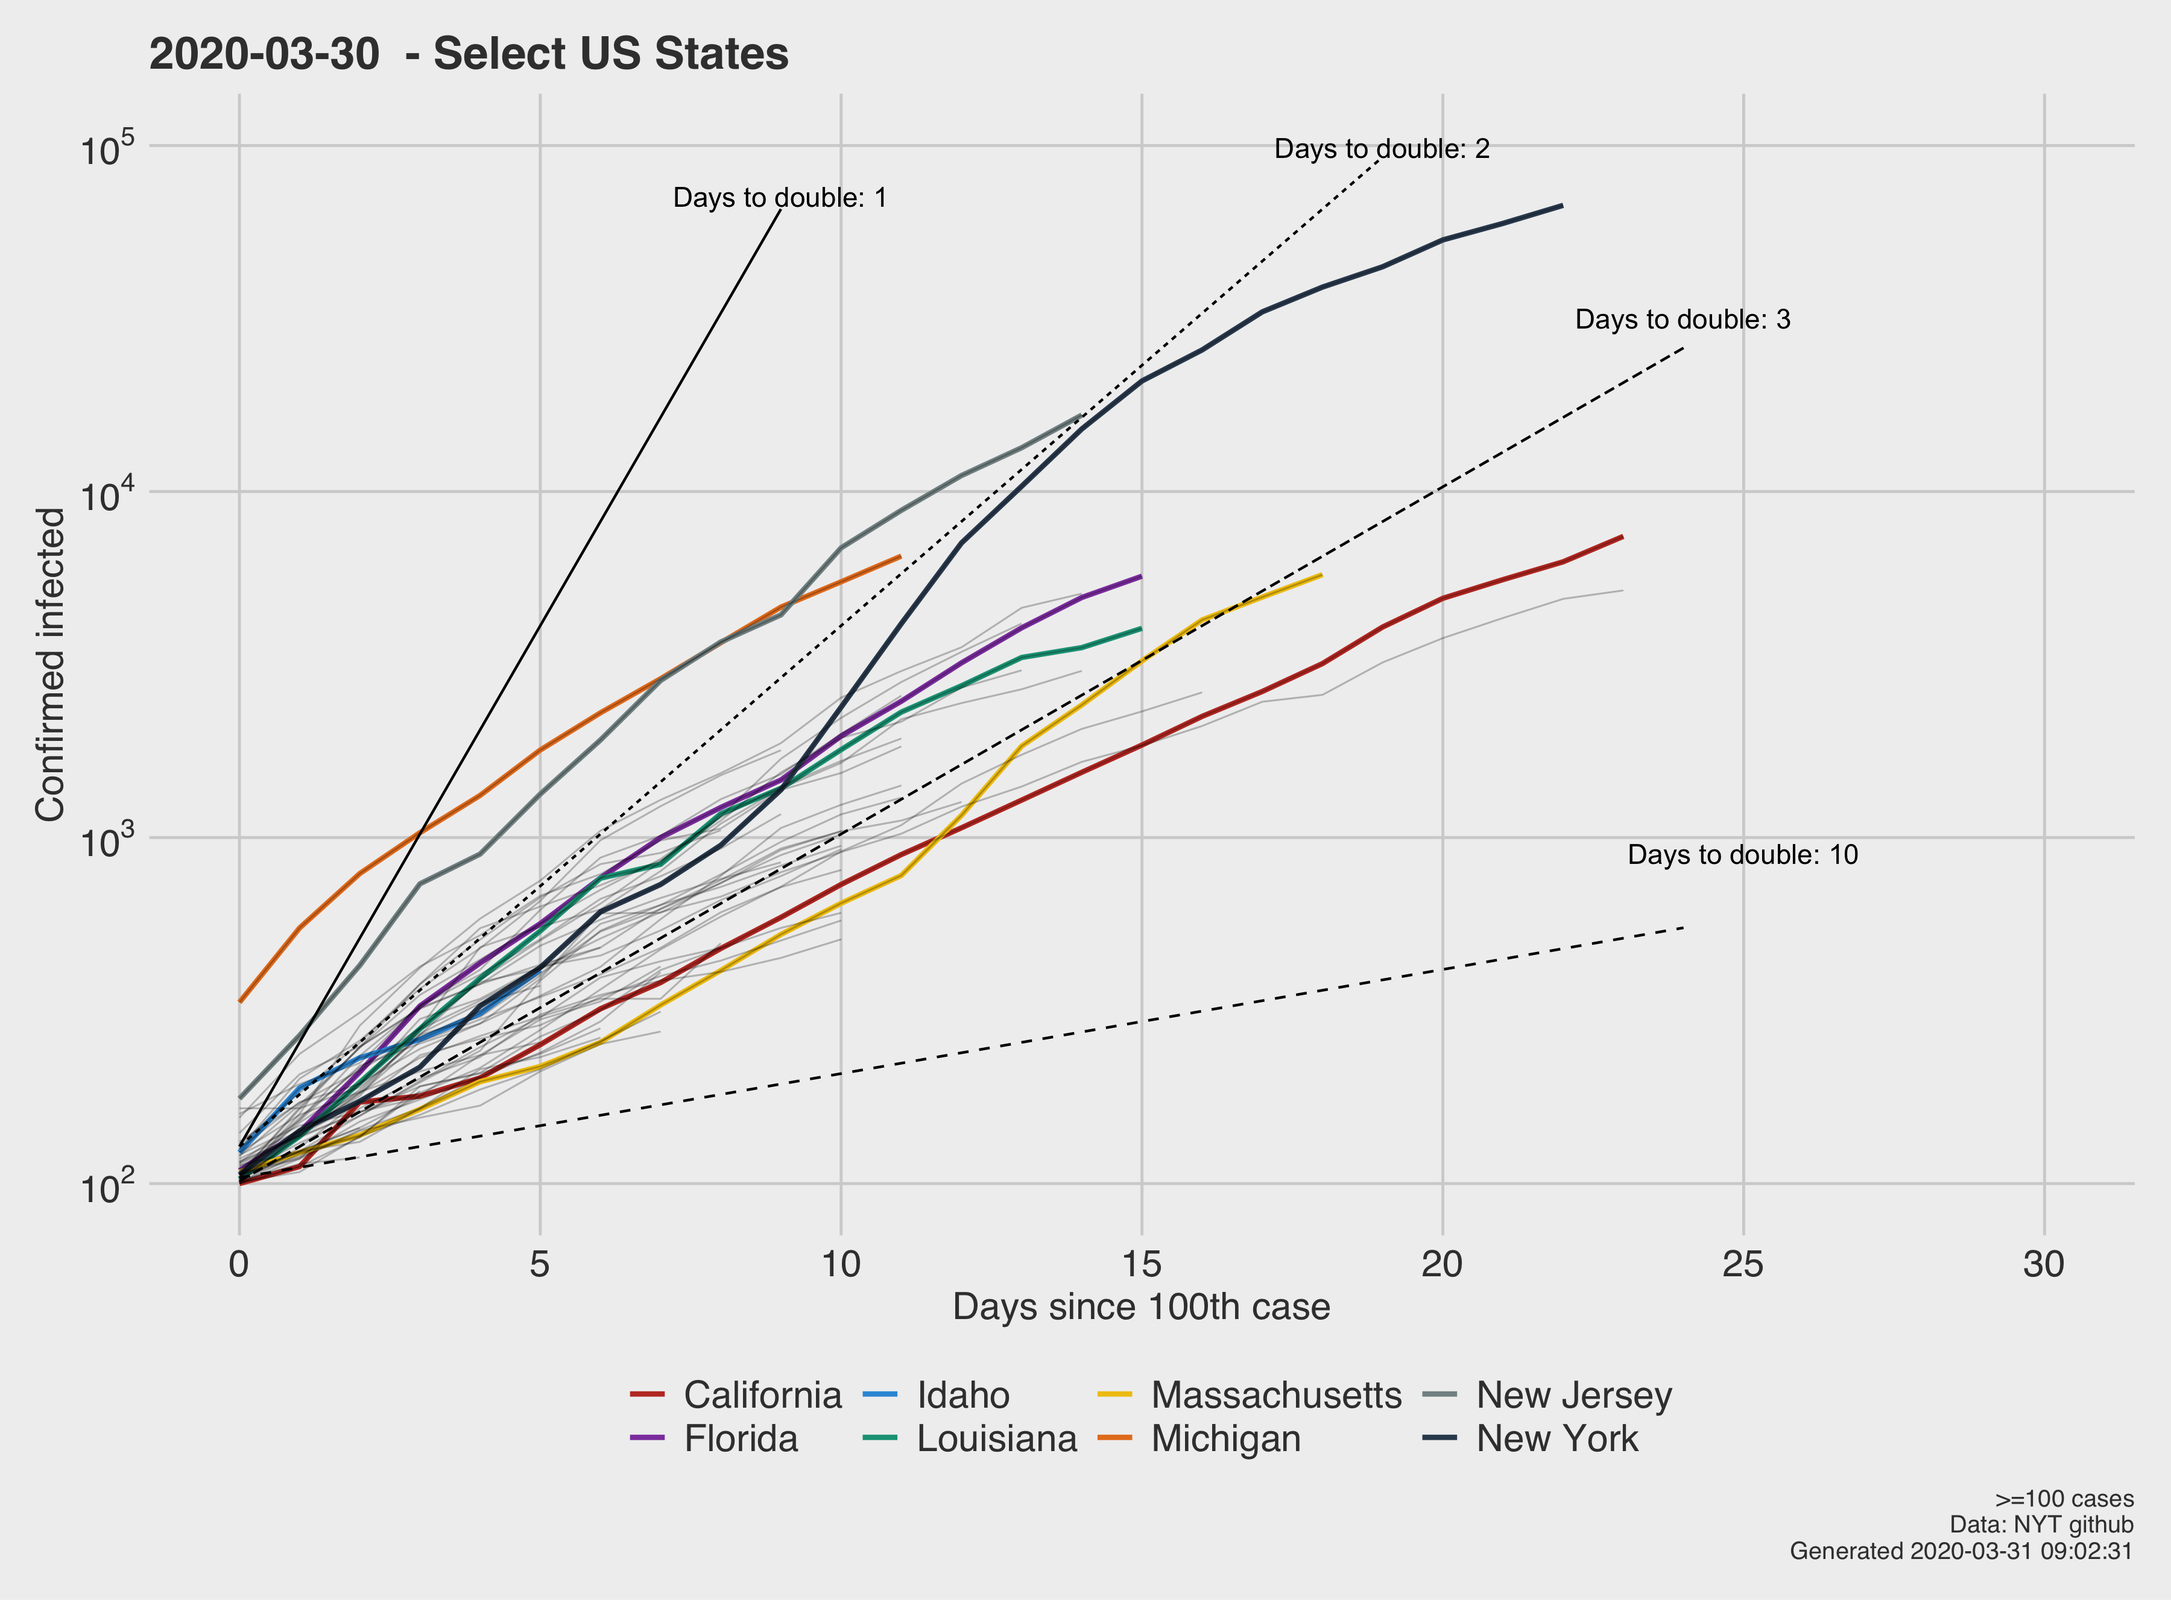
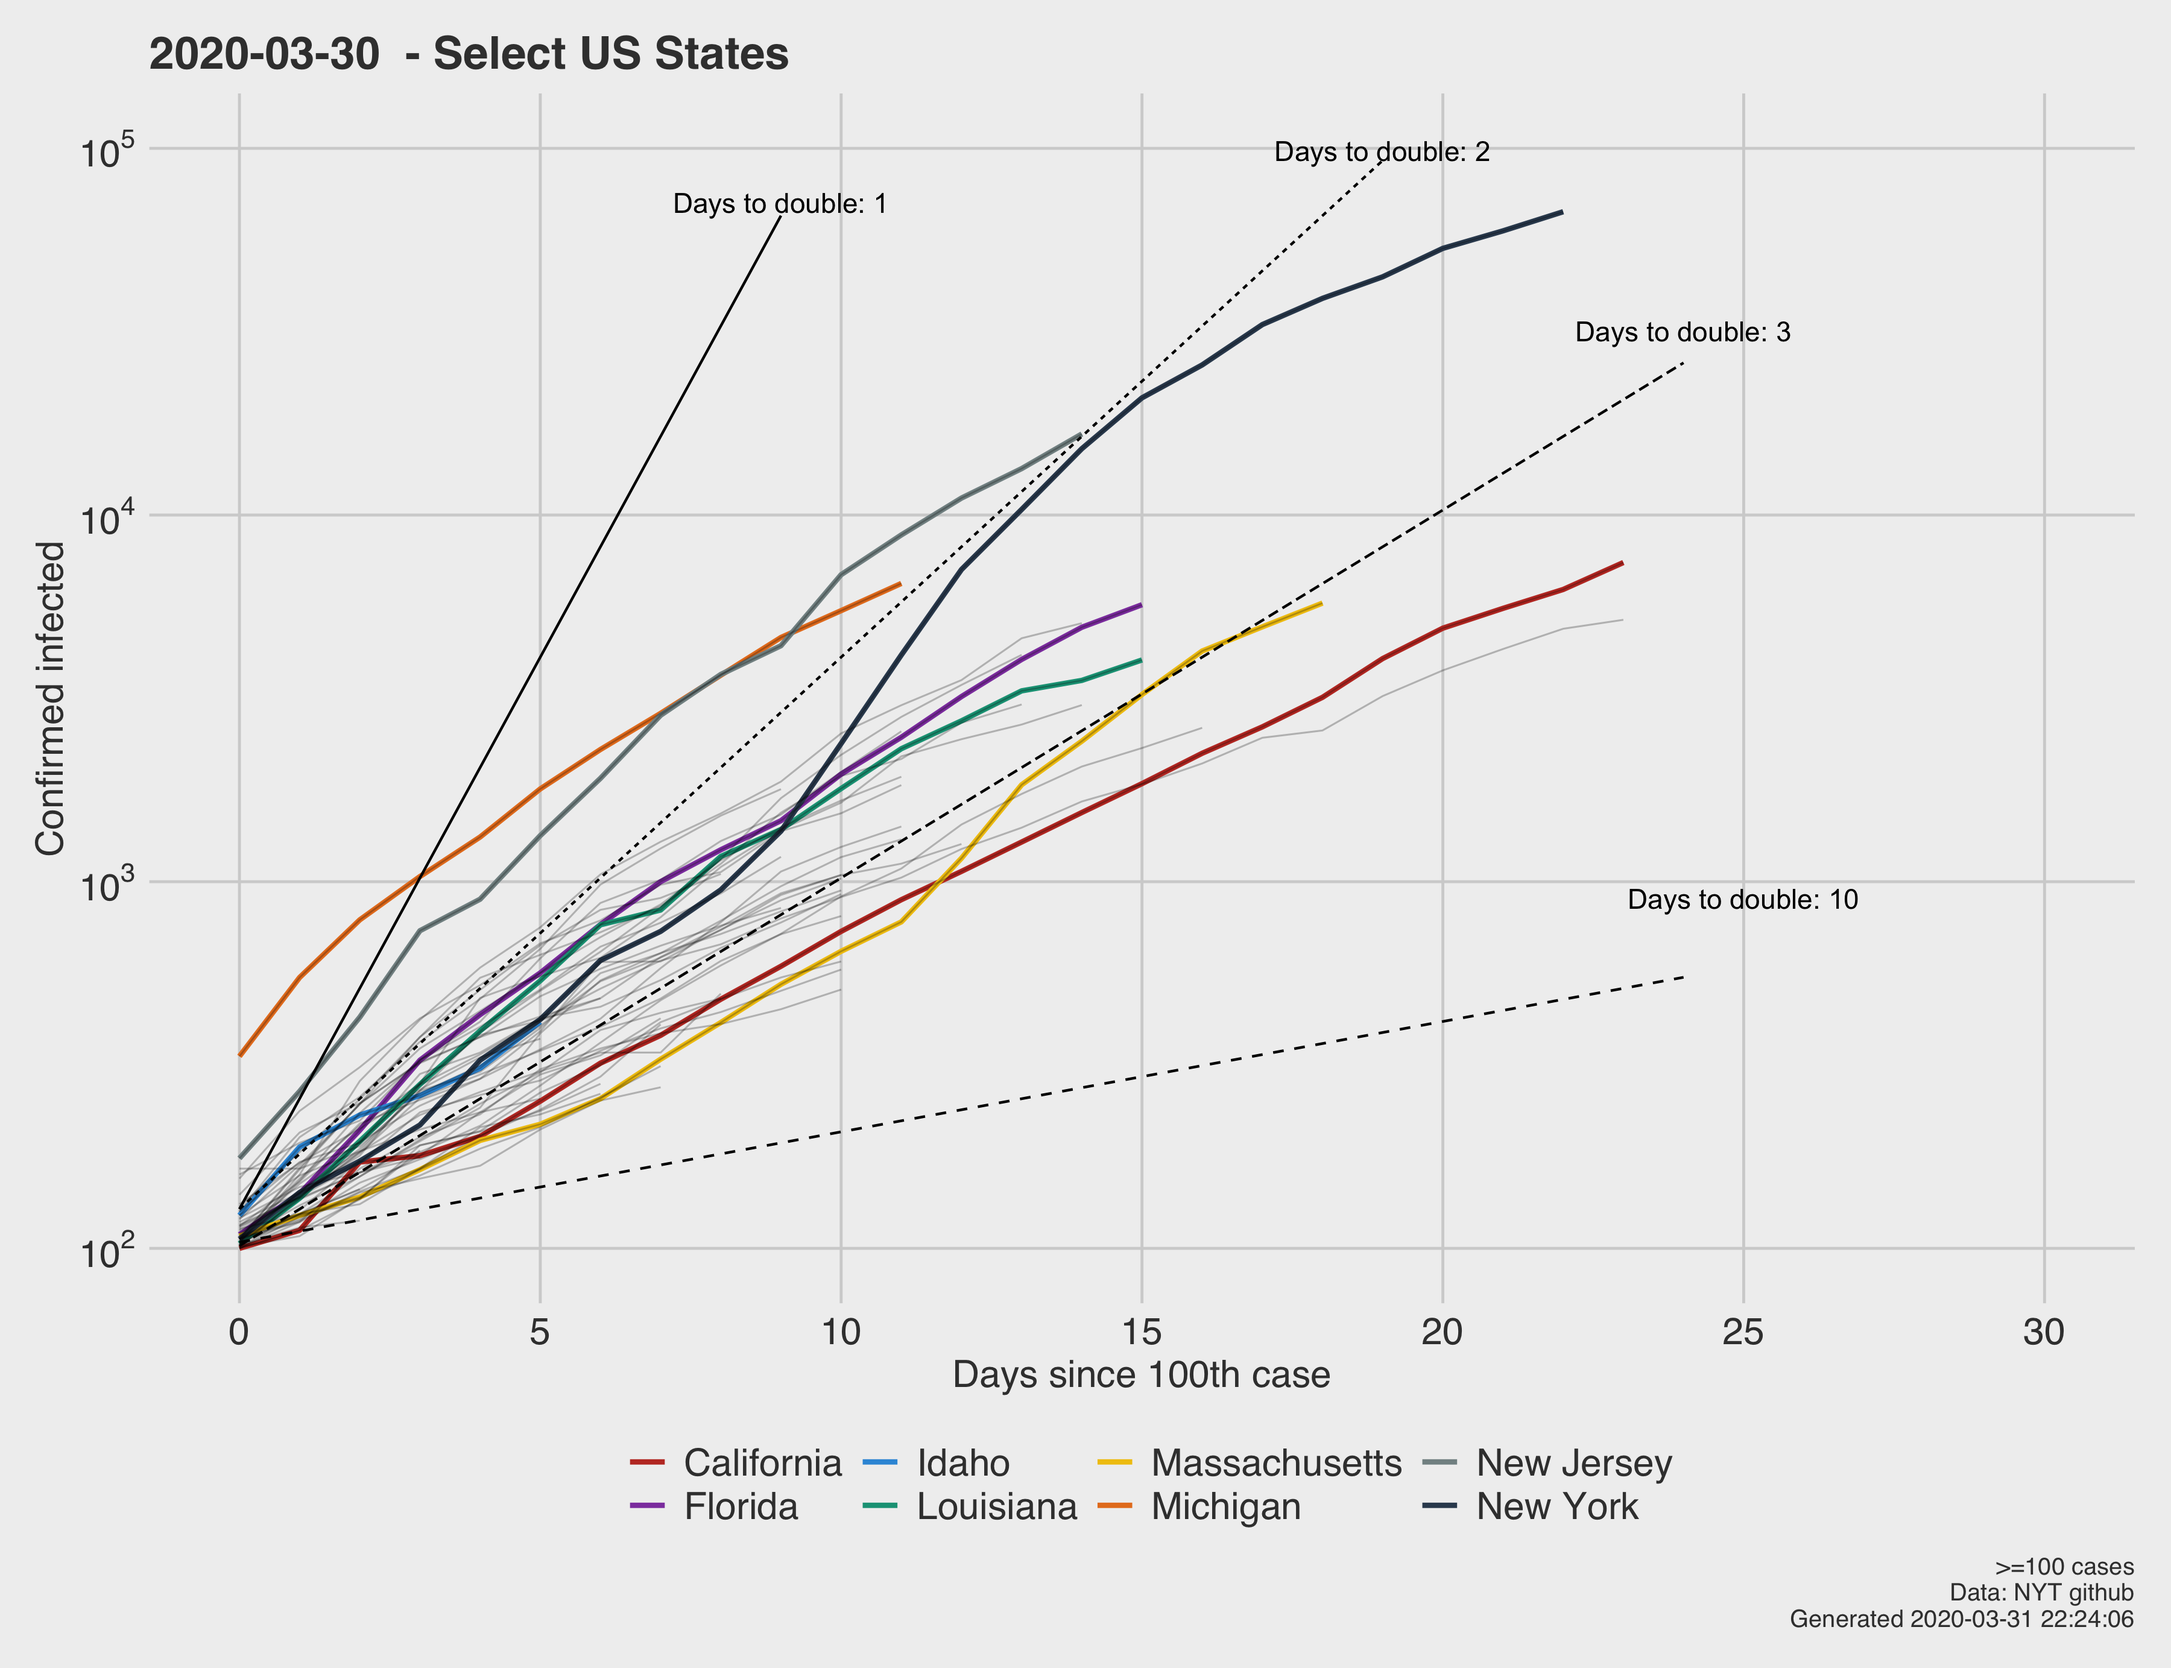
new figures

diff --git a/README.md b/README.md
@@ -34,16 +34,20 @@ Specifically, a linear fit to `log(value)`  is calculated using a 10-day moving 
 ![](Cad_deaths.png)
 **Figure 5**: Per-province, time series of logy death counts. Black line is Canada. Per province sums shown on the right, although some overplotting of the values may occur when the values are close together.
 
+## Recovered ##
+![](CanadaCurrentLoad.png)
+**Figure 6**: Canada wide time series of new daily cases, daily recovered, and daily dead.
+
+
 # [Global](#global)
 A subset of global countries are included so-as to ensure clear communication of data. 
 
-These are currently: Canada, France, Italy, Spain, UK, US
 
 ![](World_exp.png)
-**Figure 6**: Global logy growth  of reported infected cases. Reference growth rates expressed as days to double are shown. Cases are shown as days since the 100th reported case. 
+**Figure 7**: Global logy growth  of reported infected cases. Reference growth rates expressed as days to double are shown. Cases are shown as days since the 100th reported case. 
 
 ![](World_deaths_since10th.png)
-**Figure 7**: Global time series of logy death counts. Per province sums shown on the right, although some overplotting of the values may occur when the values are close together.
+**Figure 8**: Global time series of logy death counts. Per province sums shown on the right, although some overplotting of the values may occur when the values are close together.
 
 # [Global change in rate of growth](#growth)
 
@@ -54,7 +58,7 @@ This below figure shows a 10-day moving window calculation of the growth rate of
 Specifically, a linear fit to `log(value)`  is calculated using a 10-day moving window. The slope of this line is expressed as a doubling rate via `log(2)/log(slope)`. This is then plotted with time. It's essentially the change in time of a moving window first derivative. The moving window approach is used to help filter out some of the noise in data, e.g., when there is no reporting over weekends, etc.
 
 ![](World_movingwindow_growth.png)
-**Figure 8**: 10-day moving window rate of change of growth for select countries. Greater doubling rates implies a slow down.
+**Figure 9**: 10-day moving window rate of change of growth for select countries. Greater doubling rates implies a slow down.
 
 
 # [US](#US)
@@ -66,10 +70,10 @@ These data are from the New York Times github repository:
 https://github.com/nytimes/covid-19-data
 
 ![](selectStates_exp.png)
-**Figure 9**: Top 5 states (w.r.t case load),incl Idaho. Growth of reported infected cases. Reference growth rates expressed as days to double are shown. Cases are shown as days since the 100th reported case. 
+**Figure 10**: Top 5 states (w.r.t case load),incl Idaho. Growth of reported infected cases. Reference growth rates expressed as days to double are shown. Cases are shown as days since the 100th reported case. 
 
 ![](selectStates_deaths.png)
-**Figure 10**: Top 5 states (w.r.t case load), incl Idaho. Growth of reported deaths. Reference growth rates expressed as days to double are shown. Deaths are shown as days since the 10th reported death. 
+**Figure 11**: Top 5 states (w.r.t case load), incl Idaho. Growth of reported deaths. Reference growth rates expressed as days to double are shown. Deaths are shown as days since the 10th reported death. 
 
 
 
